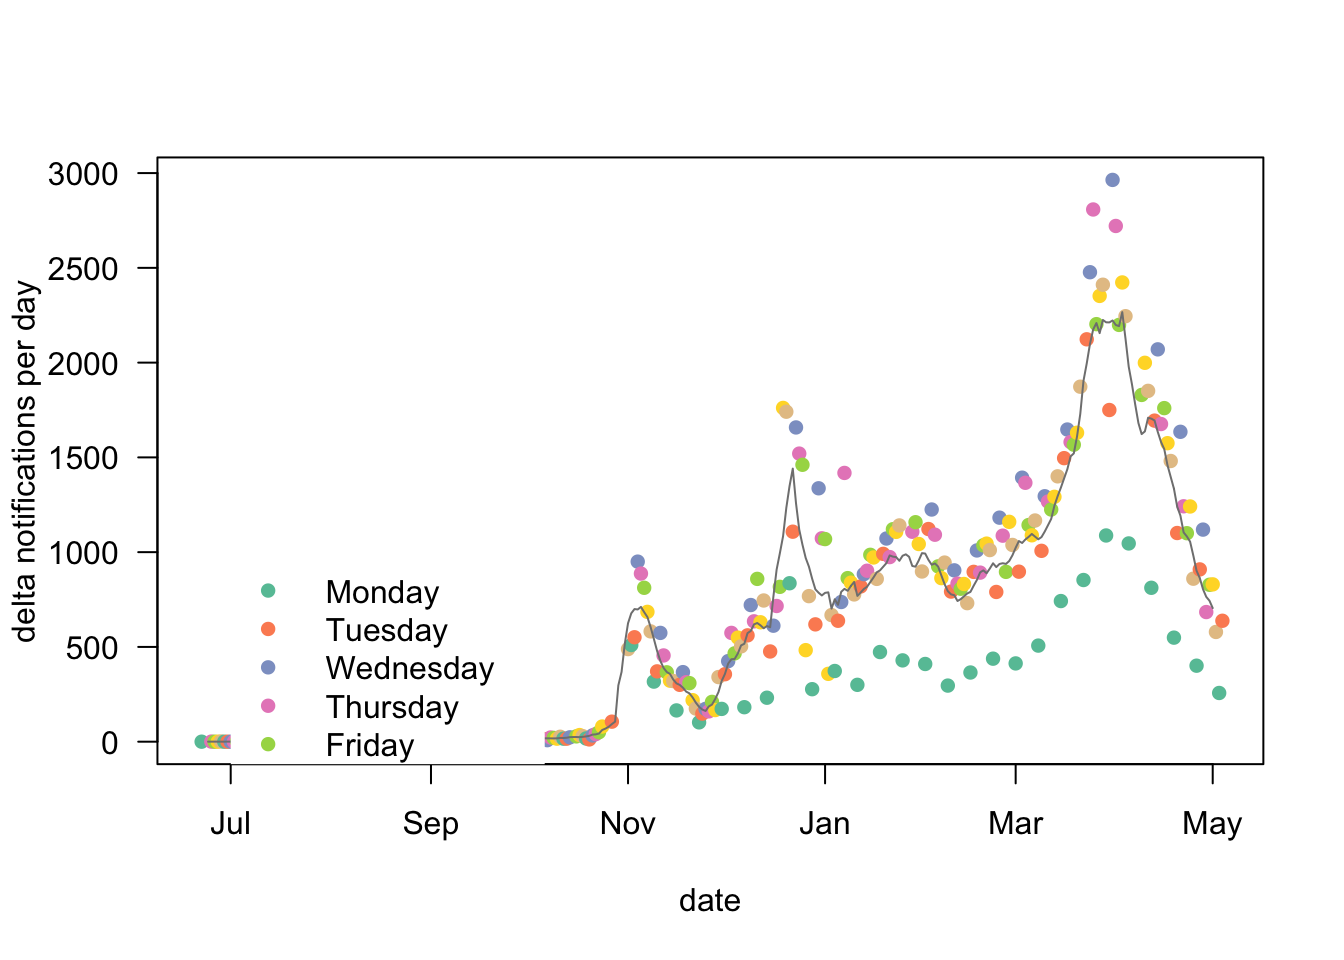
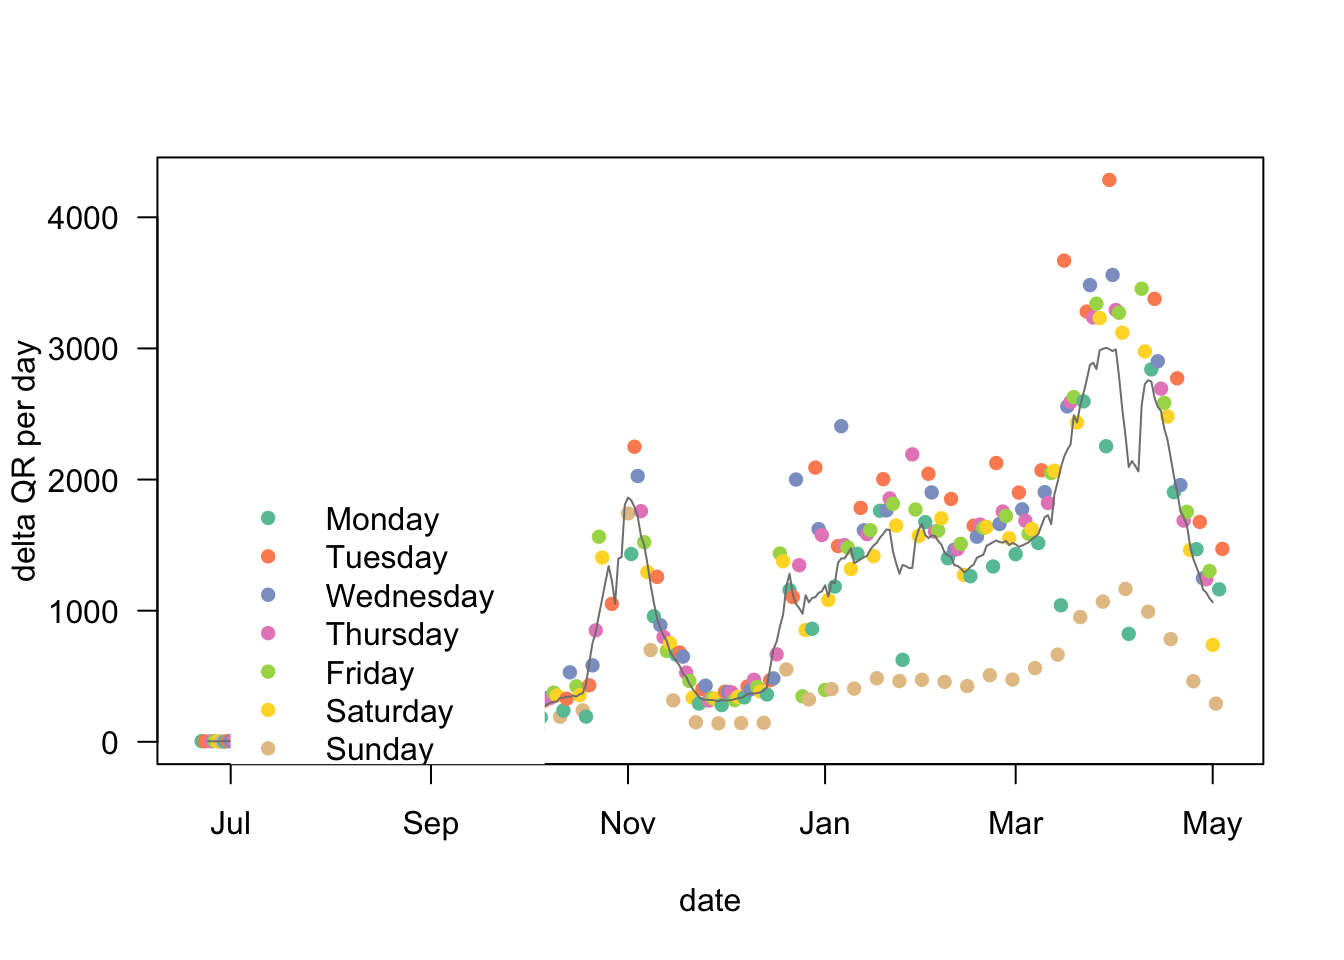
ajout date changement criteres signalee par G Leurent

diff --git a/TAC.html b/TAC.html
@@ -376,6 +376,8 @@ Données épidémio (JHU) jusqu’au Tue 04 May 2021 (inclus). Données épidém
 <li><p>Une campagne de publicité a été lancée à la fin novembre / début décembre 2020 (avec envoi de SMS à la population)</p></li>
 <li><p>Les critères de détection de contact ont changé le 27-28 novembre 2020 (changement distance et durée). <a href="https://www.service-public.fr/particuliers/actualites/A14486">Source</a></p></li>
 <li><p>A partir du 16 décembre 2020, le QR code est plus facile à obtenir (envoi SMS). <a href="https://twitter.com/TousAntiCovid/status/1349013051387871235?s=20">Source</a>.</p></li>
+<li><p>Nouveau critère encore de détection de contacts vers le 9 mars 2021.<br />
+<a href="https://twitter.com/TousAntiCovid/status/1369668376709193730?s=20">Source</a>.</p></li>
 </ul>
 </div>
 </div>
@@ -391,7 +393,7 @@ source(&quot;commonPlot.R&quot;)</code></pre>
      xlab = &quot;date&quot;, 
      ylab = &quot;Registrations&quot;, 
      pch = 16, col = cols[dat.all$weekDay])</code></pre>
-<p><img src="TAC_files/figure-html/unnamed-chunk-9-1.png" width="672" /></p>
+<p><img src="TAC_files/figure-html/unnamed-chunk-10-1.png" width="672" /></p>
 </div>
 <div id="changes-in-number-of-registered-users-per-day" class="section level3">
 <h3>Changes in number of registered users, per day</h3>
@@ -404,7 +406,7 @@ source(&quot;commonPlot.R&quot;)</code></pre>
      yaxs = &quot;i&quot;)
 legend(as.Date(&quot;2020-07-01&quot;), y = 500000, legend = names(cols), col = cols, pch = 16, box.lwd = 0)
 abline(v = as.Date(&quot;2020-10-22&quot;))</code></pre>
-<p><img src="TAC_files/figure-html/unnamed-chunk-10-1.png" width="672" /></p>
+<p><img src="TAC_files/figure-html/unnamed-chunk-11-1.png" width="672" /></p>
 <p>The vertical line corresponds to the switch from StopCovid to TousAntiCovid. There was an advertisement campaign by the end of November/beginning of December, with SMS sent to the population.</p>
 </div>
 </div>
@@ -418,7 +420,7 @@ abline(v = as.Date(&quot;2020-10-22&quot;))</code></pre>
      pch = 16, col = cols[dat.all$weekDay])
 lines(dat.all$date, dat.all$diffQRPerDay.WeekAve, col = colAve)
 legend(as.Date(&quot;2020-07-01&quot;), y = 2000, legend = c(names(cols),  &quot;7-day average&quot;), col = c(cols, colAve), pch = c(rep(16, 7), -1), box.lwd = 0, lwd = c(rep(0, 7), 1))</code></pre>
-<p><img src="TAC_files/figure-html/unnamed-chunk-11-1.png" width="672" /></p>
+<p><img src="TAC_files/figure-html/unnamed-chunk-12-1.png" width="672" /></p>
 <p>The minima are on Sundays</p>
 </div>
 </div>
@@ -434,7 +436,7 @@ legend(as.Date(&quot;2020-07-01&quot;), y = 2000, legend = c(names(cols),  &quot
 lines(dat.all$date, dat.all$diffNotifPerDay.WeekAve, col = colAve)
 
 legend(as.Date(&quot;2020-07-01&quot;), y = 1000, legend = c(names(cols),  &quot;7-day average&quot;), col = c(cols, colAve), pch = c(rep(16, 7), -1), box.lwd = 0, lwd = c(rep(0, 7), 1))</code></pre>
-<p><img src="TAC_files/figure-html/unnamed-chunk-12-1.png" width="672" /></p>
+<p><img src="TAC_files/figure-html/unnamed-chunk-13-1.png" width="672" /></p>
 <p>The minima are on Mondays<br />
 -&gt; There seems to be a one-day difference between scanned QR codes and notifications sent. This was already noticed by F. Lesueur <a href="https://flesueur.medium.com/réalignement-temporel-des-chiffres-tousanticovid-covid-7bda2f0bf1c1">here</a>.</p>
 </div>
@@ -447,7 +449,7 @@ legend(as.Date(&quot;2020-07-01&quot;), y = 1000, legend = c(names(cols),  &quot
      xlab = &quot;date&quot;, 
      ylab = &quot;notifs per QRcode&quot;, 
      pch = 16, col = cols[dat.all$weekDay], main = &quot;raw data, same day&quot;)</code></pre>
-<p><img src="TAC_files/figure-html/unnamed-chunk-13-1.png" width="672" /></p>
+<p><img src="TAC_files/figure-html/unnamed-chunk-14-1.png" width="672" /></p>
 <ol start="2" style="list-style-type: decimal">
 <li>one-day difference</li>
 </ol>
@@ -455,7 +457,7 @@ legend(as.Date(&quot;2020-07-01&quot;), y = 1000, legend = c(names(cols),  &quot
      xlab = &quot;date&quot;, 
      ylab = &quot;notifs per QR code&quot;, 
      pch = 16, col = cols[dat.all$weekDay], main = &quot;raw data, one-day delay in notifications&quot;)</code></pre>
-<p><img src="TAC_files/figure-html/unnamed-chunk-14-1.png" width="672" /></p>
+<p><img src="TAC_files/figure-html/unnamed-chunk-15-1.png" width="672" /></p>
 <ol start="3" style="list-style-type: decimal">
 <li>same day, 7-day average</li>
 </ol>
@@ -463,7 +465,7 @@ legend(as.Date(&quot;2020-07-01&quot;), y = 1000, legend = c(names(cols),  &quot
      xlab = &quot;date&quot;, 
      ylab = &quot;notifs per QRcode&quot;, 
      pch = 16, col = cols[dat.all$weekDay], main = &quot;7-day ave, same day&quot;)</code></pre>
-<p><img src="TAC_files/figure-html/unnamed-chunk-15-1.png" width="672" /></p>
+<p><img src="TAC_files/figure-html/unnamed-chunk-16-1.png" width="672" /></p>
 <ol start="4" style="list-style-type: decimal">
 <li>one-day difference, 7-day average</li>
 </ol>
@@ -479,17 +481,22 @@ title(&quot;Nb notifications par QR code, moy. 7j&quot;, line = 2.5)
 
 # Annotate with dates
 abline(v = as.Date(date_TAC), lty = 2)
-abline(v = as.Date(date_sms), lty = 2)
-abline(v = as.Date(date_criteres), lty = 2)
 cexAnnotate &lt;- 0.8
 mtext(&quot;StopCovid -&gt; 
 TousAntiCovid&quot;, side = 3, at = as.Date(date_TAC), adj = 1, cex = cexAnnotate)
 
+abline(v = as.Date(date_sms), lty = 2)
 mtext(&quot;envoi SMS pour 
 QR code&quot;, side = 3, at = as.Date(date_sms), adj = 0, cex = cexAnnotate)
 
+abline(v = as.Date(date_criteres), lty = 2)
 mtext(&quot;nvx criteres
 detection&quot;, side = 3, at = as.Date(date_criteres), adj = 0.7, cex = cexAnnotate)
+
+
+abline(v = as.Date(date_criteres2), lty = 2)
+mtext(&quot;nvx criteres
+detection&quot;, side = 3, at = as.Date(date_criteres2), adj = 0.5, cex = cexAnnotate)
 
 mtext(&quot;Date&quot;, side = 1, line = 1.5)
 
@@ -500,7 +507,7 @@ mtext(paste0(&quot;Mise à jour : &quot;, Sys.Date(), &quot;
 Données : https://www.data.gouv.fr/fr/datasets/metriques-dutilisation-de-lapplication-tousanticovid/ pour TAC&quot;), cex = 0.55, col = gray(0.3), side = 1, line = 3.25, adj = 0, )
 
 axis(4)</code></pre>
-<p><img src="TAC_files/figure-html/unnamed-chunk-16-1.png" width="672" /></p>
+<p><img src="TAC_files/figure-html/unnamed-chunk-17-1.png" width="672" /></p>
 </div>
 </div>
 <div id="epidemic-data" class="section level2">
@@ -510,7 +517,7 @@ axis(4)</code></pre>
      xlab = &quot;date&quot;, ylab = &quot;nb of cases&quot;)
 lines(dat.withEpi$date, dat.withEpi$P.WeekAve, col = colAve)
 legend(as.Date(&quot;2020-07-01&quot;), y = 65000, legend = c(names(cols),  &quot;7-day average&quot;), col = c(cols, colAve), pch = c(rep(16, 7), -1), box.lwd = 0, lwd = c(rep(0, 7), 1))</code></pre>
-<p><img src="TAC_files/figure-html/unnamed-chunk-17-1.png" width="672" /></p>
+<p><img src="TAC_files/figure-html/unnamed-chunk-18-1.png" width="672" /></p>
 </div>
 <div id="active-users" class="section level2">
 <h2>Active users</h2>
@@ -571,7 +578,7 @@ QR code&quot;, side = 3, at = as.Date(date_sms), adj = dx, cex = cexAnnotate)
 mtext(paste0(&quot;Mise à jour : &quot;, Sys.Date(), &quot;
 Données : https://www.data.gouv.fr/fr/datasets/metriques-dutilisation-de-lapplication-tousanticovid/ pour TAC, 
 https://github.com/CSSEGISandData/COVID-19/tree/master/csse_covid_19_data/csse_covid_19_time_series pour nb cas en date d&#39;annonce&quot;), cex = 0.55, col = gray(0.3), side = 1, line = 3.25, adj = 0)</code></pre>
-<p><img src="TAC_files/figure-html/unnamed-chunk-18-1.png" width="672" /></p>
+<p><img src="TAC_files/figure-html/unnamed-chunk-19-1.png" width="672" /></p>
 </div>
 <div id="app-settings" class="section level2">
 <h2>App settings</h2>
@@ -611,18 +618,21 @@ axis(4)
 
 # Annotate with dates
 abline(v = as.Date(date_TAC), lty = 2)
-abline(v = as.Date(date_sms), lty = 2)
-abline(v = as.Date(date_criteres), lty = 2)
 cexAnnotate &lt;- 0.8
 mtext(&quot;StopCovid -&gt; 
 TousAntiCovid&quot;, side = 3, at = as.Date(date_TAC), adj = 1, cex = cexAnnotate)
 
+abline(v = as.Date(date_sms), lty = 2)
 mtext(&quot;envoi SMS pour 
 QR code&quot;, side = 3, at = as.Date(date_sms), adj = 0, cex = cexAnnotate)
 
+abline(v = as.Date(date_criteres), lty = 2)
 mtext(&quot;nvx criteres
 detection&quot;, side = 3, at = as.Date(date_criteres), adj = 0.7, cex = cexAnnotate)
 
+abline(v = as.Date(date_criteres2), lty = 2)
+mtext(&quot;nvx criteres
+detection&quot;, side = 3, at = as.Date(date_criteres2), adj = 0.5, cex = cexAnnotate)
 
 
 par(xpd = TRUE)
@@ -643,7 +653,7 @@ mtext(paste0(&quot;Mise à jour : &quot;, Sys.Date(), &quot;
 Données : https://www.data.gouv.fr/fr/datasets/metriques-dutilisation-de-lapplication-tousanticovid/ pour TAC, 
 https://github.com/CSSEGISandData/COVID-19/tree/master/csse_covid_19_data/csse_covid_19_time_series 
 pour nb cas en date d&#39;annonce&quot;), cex = 0.55, col = gray(0.3), side = 1, line = 3.25, adj = 0)</code></pre>
-<p><img src="TAC_files/figure-html/unnamed-chunk-19-1.png" width="672" /></p>
+<p><img src="TAC_files/figure-html/unnamed-chunk-20-1.png" width="672" /></p>
 </div>
 </div>
 
